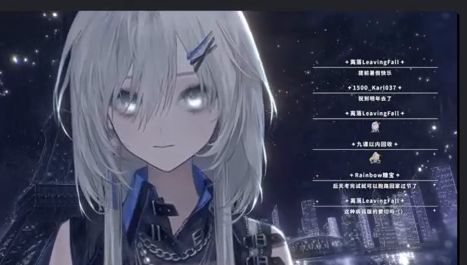
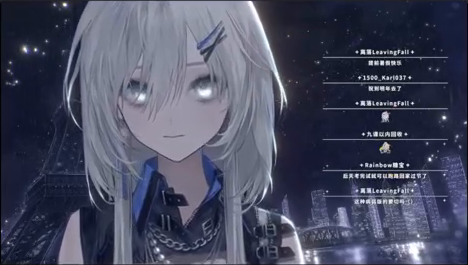
fix(promo): 九格去掉格内灰色分割线（contain -> cover + 重裁 gutter）
用户 2026-09-24：「修改 01 的 07s 左右的画面，每个格子都有部分被灰色分割线隔断，请调整位置」。

两个叠加的根因，都修了：
1) grid-1..9.png 是按等分从 rec-grid.mp4 裁的，没对齐源里的 gutter。
   从边缘向内扫"整列/整行都暗"的位置量出真 gutter：
     列 x 635-644 / 1112-1120 / 1589-1599
     行 y 0-9 / 275-301 / 568-594 / 860-891
   按精确内容边界重裁：
     列 [197,634] [645,1111] [1121,1588]，行 [10,274] [302,567] [595,859]
     -> 各 438 / 467 / 468 x 265（原来一律 467x265，col0 多含 29px）
2) 01 的 .pt-cell 用的是 object-fit: contain，而格子显示比例（292x166 / 178 / 183）
   与素材比例（1.65 / 1.76 / 1.77）不一致 —— contain 会在格内四周留出
   background:#0e1014 的深灰，那正是用户看到的"灰色分割线"。改成 cover。

同步更新 tools/test_v3_01_07_design.py 的那条断言（contain -> cover）。

验证：
- lint 0 error（72 warning 均为既有项）
- 01 重渲染 12.000000s（24fps + 30fps）；04 / 06 共用同一批九格素材，一并重渲染
- 抽帧 renders/v3-01-gutter-fix.png：01 t=7.00 / 04 t=4.00 / 06 t=13.60 三处格内均无灰线

diff --git a/videos/dd-monitor-ce-promo/compositions/v3/18-01-intro.html b/videos/dd-monitor-ce-promo/compositions/v3/18-01-intro.html
@@ -175,9 +175,13 @@
       /* 侧栏贴着窗口左缘和上下缘，自己带圆角（父层不再 overflow:hidden） */
       /* 九格使用现有录屏裁出的 grid-1..9.png；侧栏沿用真实软件切片。
          列坐标按 1600px 原录屏约 x=166/643/1121 缩至 1000px，
-         保留侧栏后的原始间距，避免画面落到灰色分隔线上。 */
+         保留侧栏后的原始间距，避免画面落到灰色分隔线上。
+         ⚠ 2026-09-24：格子显示比例（292×166 / 178 / 183）与九格素材的比例
+           （实量各列 438/467/468 × 265 → 1.65 / 1.76 / 1.77）并不一致，
+           所以 `object-fit` 必须用 **cover** —— 用 contain 会在格子四周留出
+           `background` 的深灰，就是用户看到的「每格被灰色分割线隔断」。 */
       .pt-sb  { left: 0;     top: 0;     width: 95px;  height: 542px; border-radius: 14px 0 0 14px; }
-      .pt-cell { object-fit: contain; background: #0e1014; }
+      .pt-cell { object-fit: cover; background: #0e1014; }
       .pt-c0 { left: 104px; width: 292px; }
       .pt-c1 { left: 402px; width: 292px; }
       .pt-c2 { left: 701px; width: 292px; }

diff --git a/videos/dd-monitor-ce-promo/tools/test_v3_01_07_design.py b/videos/dd-monitor-ce-promo/tools/test_v3_01_07_design.py
@@ -101,7 +101,9 @@ def main():
     assembly = (PROJECT / "tools" / "assemble_v3_01_07_design.py").read_text(encoding="utf-8")
     cells = re.findall(r'<img class="pt pt-cell pt-r([0-2]) pt-c([0-2])" id="pR([0-2])C([0-2])" src="assets/rec/grid-([1-9]).png"', intro)
     assert len(cells) == 9 and "pMain" not in intro and "cell-main.png" not in intro
-    assert '.pt-cell { object-fit: contain; background: #0e1014; }' in intro
+    # 2026-09-24: 格子显示比例（292x166/178/183）与九格素材比例（各列 1.65/1.76/1.77）不一致，
+    # 必须用 cover —— contain 会在格内四周留出 background 的深灰，就是用户报的"灰色分割线"
+    assert '.pt-cell { object-fit: cover; background: #0e1014; }' in intro
     assert '.pt-c0 { left: 104px; width: 292px; }' in intro
     assert '.pt-c1 { left: 402px; width: 292px; }' in intro
     assert '.pt-c2 { left: 701px; width: 292px; }' in intro
